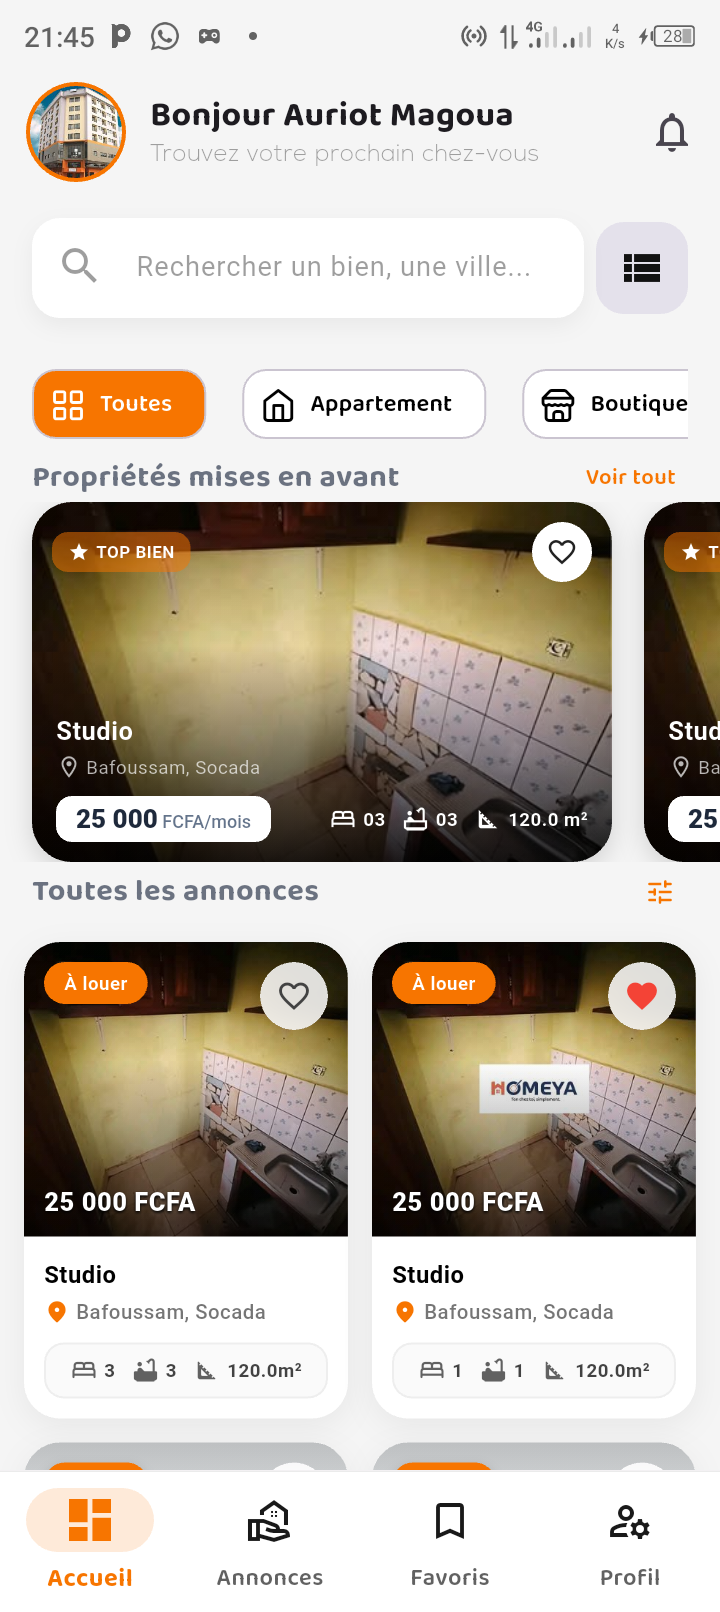
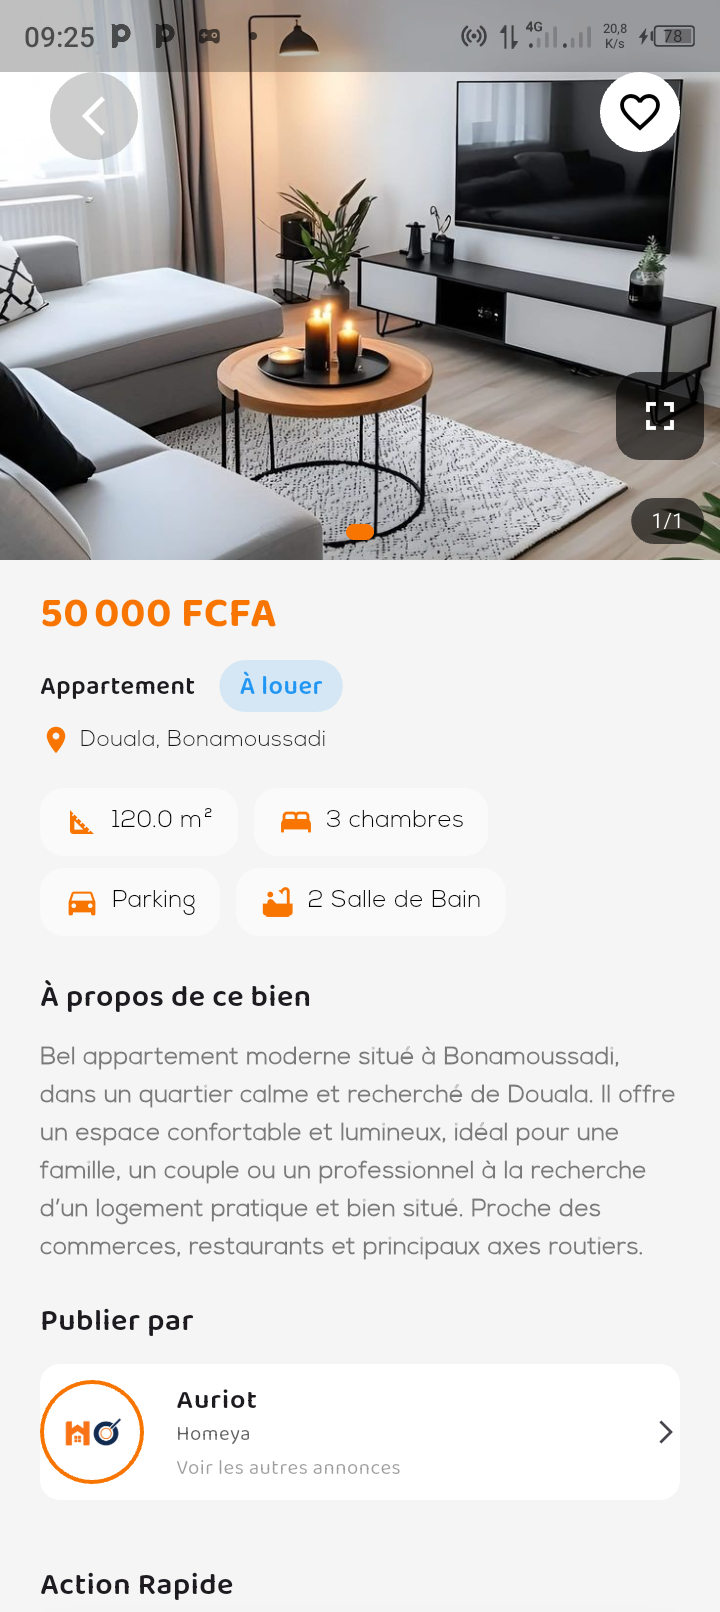
new images

diff --git a/app/components/sections/Features.tsx b/app/components/sections/Features.tsx
@@ -93,7 +93,7 @@ export default function Features() {
                   {/* Écran : bg-white au lieu de bg-slate-900 */}
                   <div className="relative w-full h-full rounded-[35px] overflow-hidden bg-white">
                     <Image
-                        src="/screen-2.png"
+                        src="/screen-1.png"
                         alt="Application HomeYa pour rechercher des logements au Cameroun"
                         fill
                         priority // <-- Force le chargement instantané (pas de lazy loading)

diff --git a/app/components/sections/MobileAppSection.tsx b/app/components/sections/MobileAppSection.tsx
@@ -95,7 +95,7 @@ export default function MobileAppSection() {
                 
                 {/* 1. AJOUT DE L'IMAGE RÉELLE */}
                 <Image
-                  src="/screen-2.jpeg" // <--- Remplacez par le chemin de votre vraie capture d'écran dans /public
+                  src="/screen-2.png" // <--- Remplacez par le chemin de votre vraie capture d'écran dans /public
                   alt="Accueil de l'application HomeYa pour rechercher des logements au Cameroun"
                   fill
                   priority
